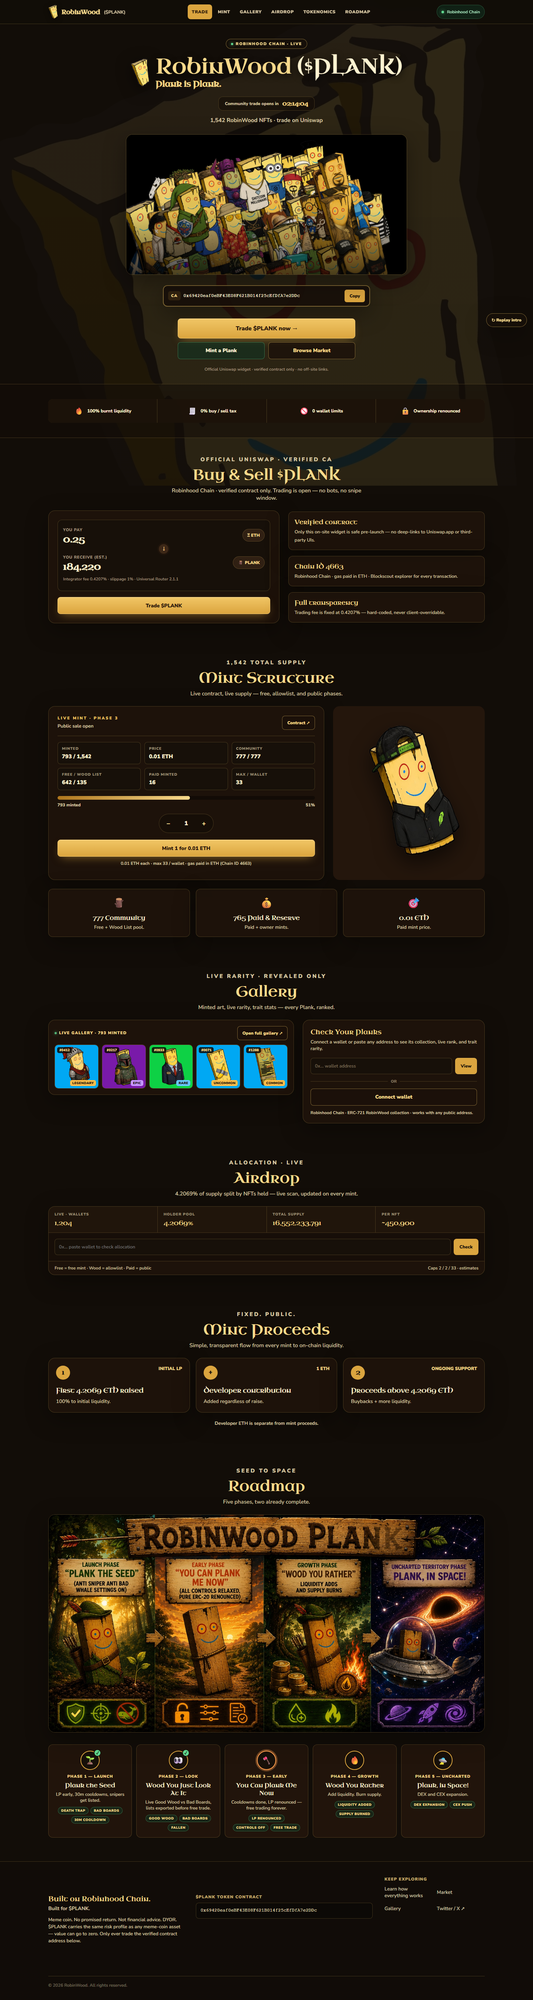
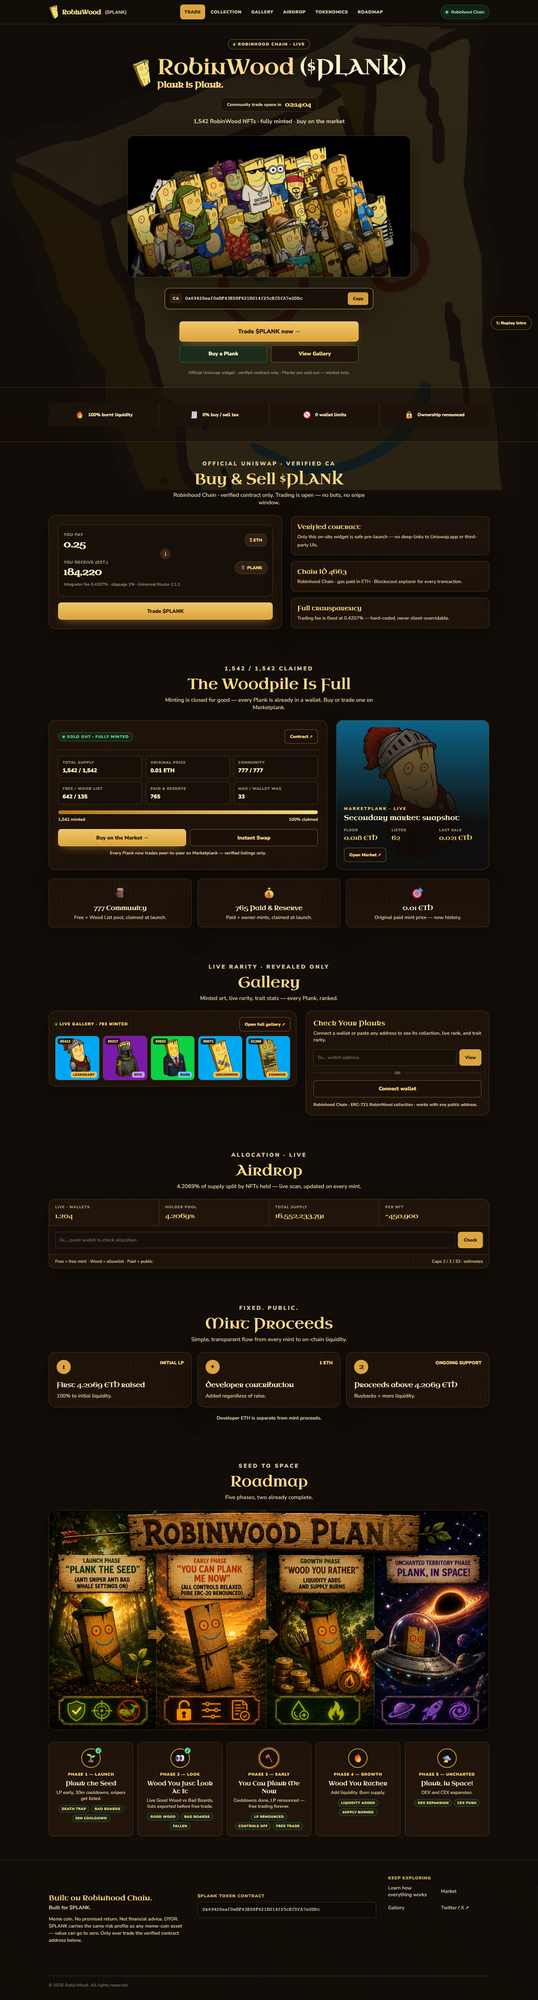
docs: final landing-mockup revision — asset vendoring + refreshed evidence
Follow-through from the mockup agent''s last pass, verified against the
acceptance greps: vendored assets/ referenced by plain relative paths (the
../../../public/ paths 404''d whenever the review server was rooted at the
mockup folder — the second cause of the "blank panel"), refreshed
verify-* screenshots, README/finalized.json aligned with the minted-out
reality (nav "Mint" → "Collection", hero row Trade / Buy a Plank /
Gallery, "The Woodpile Is Full" provenance section, market-snapshot
panel), and the last stale "live mint panel" rationale sentence removed.

Claude-Session: https://claude.ai/code/session_017FhAJxqPWd56b2vfgYQW9m

diff --git a/docs/mockups/landing-redesign/README.md b/docs/mockups/landing-redesign/README.md
@@ -1,9 +1,10 @@
 # Landing page redesign mockup
 
-Open `finalized.html` directly in a browser, or via a static server rooted at the
-repo root (relative asset paths resolve to `../../../public/images/...`, same
-convention as `docs/mockups/market-redesign/finalized.html`). No build, wallet,
-API, or chain connection is required.
+Open `finalized.html` directly in a browser, or via a static server rooted at
+either the repo root or this folder — all images are vendored locally under
+`assets/` and referenced with plain relative paths (`assets/...`), so nothing
+breaks depending on which directory a reviewer's static server treats as its
+root. No build, wallet, API, or chain connection is required.
 
 The preloader plays automatically on load (~3.5s) and dismisses into the page.
 A "↻ Replay intro" button sits fixed bottom-right for review — click it to
@@ -15,22 +16,29 @@ Every piece of information the current live landing page (`app/page.tsx` and
 its section components) communicates is retained — better presented, nothing
 dropped, per DESIGN.md's information-contract rule:
 
-- **Header/nav** — brand mark, Market / Trade / Mint / Gallery / Airdrop /
+- **Header/nav** — brand mark, Trade / Collection / Gallery / Airdrop /
   Tokenomics / Roadmap links, Trade kept as the single emphasized nav item
-  (matching `NAV_LINKS` in `lib/constants.ts`), chain pill, Connect wallet.
+  (matching `NAV_LINKS` in `lib/constants.ts`); "Mint" is relabeled
+  "Collection" since there is no live mint to link to anymore. Chain pill,
+  Connect wallet.
 - **Hero** (`components/Hero.tsx`) — chain badge, mascot + title + "Plank is
-  Plank." tagline, countdown to trade open, supply line (1,542 NFTs · trade on
-  Uniswap), collage art, copyable contract address, and the Trade / Mint /
-  Market CTA row.
+  Plank." tagline, countdown to trade open, supply line (now "1,542 RobinWood
+  NFTs · fully minted · buy on the market"), collage art, copyable contract
+  address, and a Trade / Buy a Plank / View Gallery CTA row.
 - **Trust facts** (`components/TrustFacts.tsx`) — 100% burnt liquidity, 0%
   tax, 0 limits, ownership renounced — moved from the page bottom to directly
   under the hero CTAs (see CRO rationale below).
 - **Trade** (`components/Trade.tsx`) — verified-CA messaging, countdown/open
   state, swap affordance, integrator fee and Universal Router disclosure.
-- **Mint** (`components/MintInfo.tsx` + `MintPanel.tsx` + `MintAllocation.tsx`)
-  — live phase, minted/price/community/free-wood-list/paid stats, progress
-  bar, quantity stepper, mint CTA, gas/price footnotes, and the three
-  allocation cards (777 community, 765 paid & reserve, 0.01 ETH price).
+- **Collection / sold-out mint** (`components/MintInfo.tsx` + `MintPanel.tsx`
+  + `MintAllocation.tsx`) — reworked from a live-mint form (the original
+  component's job when supply was still available) into a "sold out"
+  provenance story: full 1,542/1,542 supply, community/free/wood-list/paid
+  splits, and the original 0.01 ETH price kept as history, not an active
+  price. The conversion path points at Marketplank ("Buy on the Market" /
+  "Instant Swap") instead of a mint transaction. A market-snapshot panel
+  (floor / listed / last sale over real collection art) fills the space
+  beside the provenance card, replacing what was decorative-only side art.
 - **Gallery** (`components/Gallery.tsx`) — live-rarity teaser grid pulling
   real collection art, minted count, link to the full gallery; condensed from
   the live page's full interactive grid/search/insights workbench, which is
@@ -79,13 +87,13 @@ ownership) directly beneath the hero's CTA row, so hesitation about "is this
 a rug" is answered in the same viewport as the ask, not ten scrolls later.
 Nothing about the facts changed — only their position in the page's argument.
 
-**One CTA, then the case for it.** After Trade/Mint/Market and the trust
-strip, every following section supports one of those three actions:
-Trade → the swap card and fee/contract facts; Mint → the live mint panel and
-allocation cards; Market/Gallery → the rarity teaser and wallet lookup. The
-Airdrop, Tokenomics, and Roadmap sections come after — they're incentive and
-credibility content for a visitor who hasn't converted yet, not gatekeepers
-in front of the ask.
+**One CTA, then the case for it.** After the Trade / Buy-a-Plank / Gallery
+hero row and the trust strip, every following section supports one of those
+actions: Trade → the swap card and fee/contract facts; Buy a Plank → the
+sold-out provenance story and market snapshot; Market/Gallery → the rarity
+teaser and wallet lookup. The Airdrop, Tokenomics, and Roadmap sections come
+after — they're incentive and credibility content for a visitor who hasn't
+converted yet, not gatekeepers in front of the ask.
 
 **Scannable, one-job sections.** Each section keeps a single eyebrow + title +
 one-line lede pattern (mirroring `SectionHead` from the live page), so a
@@ -103,16 +111,25 @@ button, verified-CA messaging inline with Trade), not sanding it down.
 information surface, not a promotional card" — the risk statement and full,
 never-truncated contract address are both preserved verbatim.
 
+**Plank grain on large surfaces.** Per DESIGN.md's "Elevation & Depth" (the
+canonical `repeating-linear-gradient(92deg, rgba(233,180,63,0.05) 0 1px,
+transparent 1px 11px)` fine gold board-line texture, sourced from the live
+footer), the mockup applies it to the hero band, the trust ticker, every
+`.panel`/`.wood-frame` surface, and the footer — never behind dense data text,
+since data cells (mint stats, airdrop stats, etc.) already paint their own
+opaque background over it.
+
 ## The preloader
 
 "Warming the workshop" — a full-screen sequence themed around building the
-RobinWood fence: eight plank boards drop into place in a staggered sequence
-(built from a CSS box gradient standing in for `plank-legs`/plank-board
-art, with the actual `plank-head.webp` mascot bobbing at the base), under a
-"🔨 Nailing the planks" headline and a gold progress bar that fills over
-~3.5 seconds. Copy calls out the real supply figure (1,542 RobinWood Planks)
-so the wait itself reinforces scarcity/lore rather than feeling like dead
-time. It:
+RobinWood fence. Eight of the actual hand-drawn character assets (alternating
+`plank-logo.webp` and five pieces from `public/images/collection/`) drop into
+place in a staggered sequence — real warm-wood art with the thick ink outline
+and smiley face, not abstract geometric boards — with `plank-head.webp`
+bobbing at the base as the anchor mascot. A "🔨 Nailing the planks" headline
+sits above a gold progress bar that fills over ~3.5 seconds. Copy calls out
+the real supply figure (1,542 RobinWood Planks) so the wait itself reinforces
+scarcity/lore rather than feeling like dead time. It:
 
 - Plays for a minimum of ~3.5s (`MIN_MS` in the inline script) before
   auto-dismissing with a fade.
@@ -125,7 +142,7 @@ time. It:
 
 ## Notes on this build pass
 
-While verifying the mockup with the shared browse-automation tool, two build
+While verifying the mockup with the shared browse-automation tool, three build
 issues surfaced and were fixed in the shipped file:
 
 1. A scroll-triggered `IntersectionObserver` reveal effect left below-the-fold
@@ -138,14 +155,24 @@ issues surfaced and were fixed in the shipped file:
    `opacity:0` on any element carrying that class name regardless of origin.
    Renamed to `fx-in` (kept only as a semantic marker; carries no active
    styling) to avoid the collision.
+3. Every image originally used `../../../public/images/...`, matching the
+   market-redesign mockup's convention. That only resolves when a static
+   server's document root sits at the repo root — a server rooted at this
+   folder instead (as the review server at `:3792` is) 404s on every image,
+   including the one filling what read as a "blank panel" in review. Fixed by
+   vendoring the actually-used assets into a local `assets/` folder next to
+   `finalized.html` and switching every reference to a plain relative path
+   (`assets/...`), which resolves correctly regardless of which directory a
+   static server treats as its root.
 
 ## Verification
 
-Screenshotted via the gstack `browse` tool against a static server rooted at
-the repo root (`npx http-server -p 4791 .`, so `../../../public/images/...`
-resolves correctly), at 1440×900 and 390×844, plus a capture of the preloader
-mid-animation. See `verify-desktop.png`, `verify-mobile.png`, and
-`verify-preloader.png` in this folder.
+Screenshotted via the gstack `browse` tool at 1440×900 and 390×844, plus a
+capture of the preloader mid-animation, confirming zero broken images
+(`[...document.images].filter(i => !i.complete || i.naturalWidth === 0)`
+returns empty) against both the repo-root-rooted server and the
+mockup-folder-rooted `:3792` review server. See `verify-desktop.png`,
+`verify-mobile.png`, and `verify-preloader.png` in this folder.
 
 ## Runtime mapping
 
